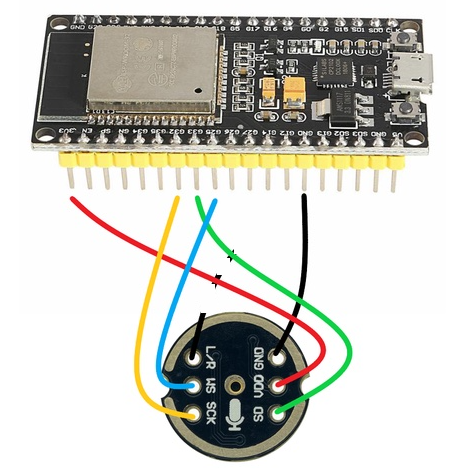
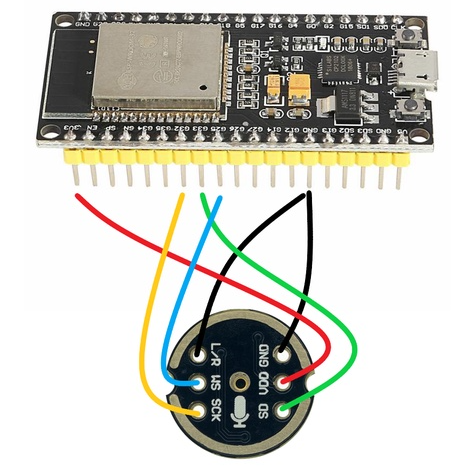
Update: Mic setup

Changed region(s): [[0.0596, 0.0, 0.9532, 0.983], [0.6851, 0.8043, 0.7149, 0.834]]

diff --git a/i2s_mic_setup/README.md b/i2s_mic_setup/README.md
@@ -19,7 +19,7 @@ Modify as needed:
 |INMP441 | ESP32| Info|
 |---|---|---|
 |VDD|3v3|Power - DO NOT USE 5V!|
-|GND|---| DO NOT CONNECT|
+|GND|GND| GND|
 |L/R|GND|Left channel or right channel|
 |WS|25|Left right clock|
 |SCK|32|Serial clock|
@@ -28,4 +28,5 @@ Modify as needed:
 ## References
 
 - [I2S - API Reference](https://docs.espressif.com/projects/esp-idf/en/v3.3.5/api-reference/peripherals/i2s.html)
+- [Sound with ESP32 – I2S Protocol](https://dronebotworkshop.com/esp32-i2s/)
 - [The Simplest Test Code for an I2S Microphone on the ESP32 I can Imagine](https://github.com/atomic14/esp32-i2s-mic-test/tree/main)
